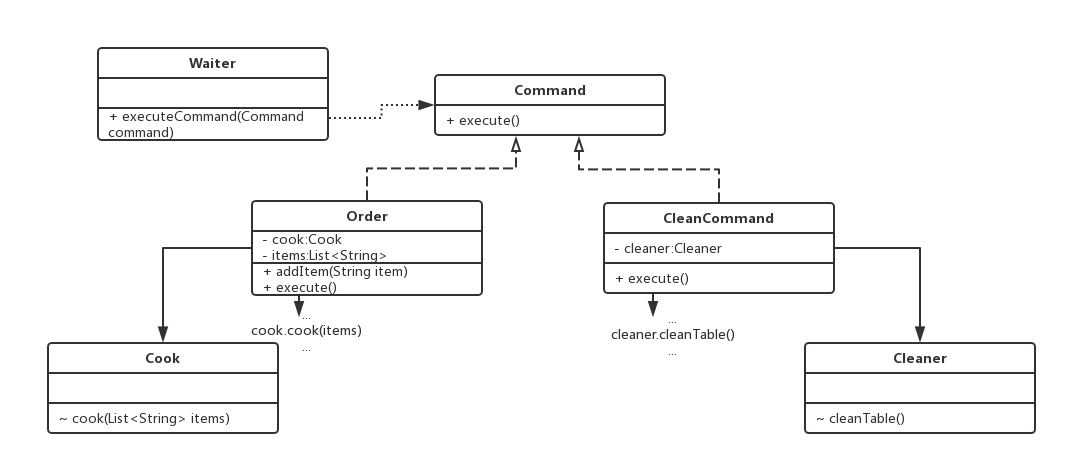
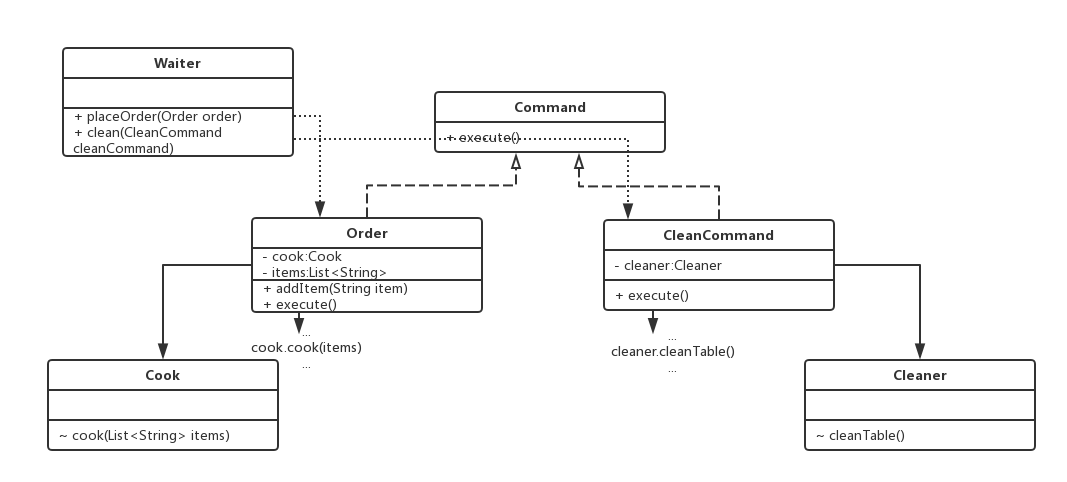
Finished Command Pattern restaurant example

diff --git a/4-Behavioral Patterns/6-Command Pattern/Restaurant Example/Java/restaurant/Waiter.java b/4-Behavioral Patterns/6-Command Pattern/Restaurant Example/Java/restaurant/Waiter.java
@@ -1,24 +1,61 @@
 package restaurant;
 
+import java.util.Arrays;
+
 /**
  * Waiter class that works as "Invoker".
  * This class is responsible for executing the different "Command"s.
+ * The "Invoker" does not know how to handle the request, but simply invoke
+ * command.execute() method, and let the internal correct "Receive" handle the
+ * request.
  *
  * @author Ziang Lu
  */
 public class Waiter {
 
     /**
-     * Executes the given command.
-     * The "Invoker" does not know how to handle the request, but simply invoke
-     * command.execute() method, and let the internal correct "Receiver" handle
-     * the request.
-     * @param command command to execute
+     * Colleague cook in the restaurant.
      */
-    public void executeCommand(Command command) {
-        System.out.println("Waiter [Invoker] has received the command [Command] and start executing the command " +
-                "[Command] ...");
-        command.execute();
+    private final Cook restaurantCook;
+    /**
+     * Colleague cleaner in the restaurant.
+     */
+    private final Cleaner restaurantCleaner;
+
+    /**
+     * Constructor with parameter.
+     * @param restaurantCook colleague cook
+     * @param restaurantCleaner colleague cleaner
+     */
+    public Waiter(Cook restaurantCook, Cleaner restaurantCleaner) {
+        this.restaurantCook = restaurantCook;
+        this.restaurantCleaner = restaurantCleaner;
+    }
+
+    /**
+     * Places a new order with the given items.
+     * @param items items of the order
+     */
+    public void placeOrder(String... items) {
+        System.out.println("Waiter [Invoker] has received an order with items: " + Arrays.toString(items) + ".");
+        // Create an order [Command] by passing in the cook [Receiver]
+        Order order = new Order(restaurantCook);
+        for (String item : items) {
+            order.addItem(item);
+        }
+        System.out.println("Waiter [Invoker] started executing the command...");
+        order.execute();
+    }
+
+    /**
+     * Receives a request to clean the table.
+     */
+    public void clean() {
+        System.out.println("Waiter [Invoker] has received the clean request.");
+        // Create a clean command [Command] by passing in the cleaner [Receiver]
+        CleanCommand cleanCommand = new CleanCommand(restaurantCleaner);
+        System.out.println("Waiter [Invoker] started executing the clean command...");
+        cleanCommand.execute();
     }
 
 }

diff --git a/4-Behavioral Patterns/6-Command Pattern/Restaurant Example/Java/runner/Customer.java b/4-Behavioral Patterns/6-Command Pattern/Restaurant Example/Java/runner/Customer.java
@@ -1,9 +1,7 @@
 package runner;
 
-import restaurant.CleanCommand;
 import restaurant.Cleaner;
 import restaurant.Cook;
-import restaurant.Order;
 import restaurant.Waiter;
 
 /**
@@ -20,37 +18,29 @@ public class Customer {
     public static void main(String[] args) {
         Cook restaurantCook = new Cook(); // Receiver
         Cleaner restaurantCleaner = new Cleaner(); // Receiver
-        Waiter restaurantWaiter = new Waiter(); // Invoker
+        Waiter restaurantWaiter = new Waiter(restaurantCook, restaurantCleaner); // Invoker
 
-        // Create a order [Command] by passing in the cook [Receiver]
-        Order order = new Order(restaurantCook);
-        order.addItem("Kung Pao Chicken");
-        order.addItem("Sesame Chicken");
-        System.out.println();
-        // Let the waiter [Invoker] execute this command
-        restaurantWaiter.executeCommand(order);
+        // Request the waiter [Invoker] to place an order [Command]
+        restaurantWaiter.placeOrder("Kung Pao Chicken", "Sesame Chicken");
 
         System.out.println();
 
-        // Create a clean command [Command] by passing in the cleaner [Receiver]
-        CleanCommand cleanCommand = new CleanCommand(restaurantCleaner);
-        System.out.println();
-        // Let the waiter [Invoker] execute this command
-        restaurantWaiter.executeCommand(cleanCommand);
+        // Request the waiter [Invoker] to clean the table [Command]
+        restaurantWaiter.clean();
 
         /*
          * Output:
+         * Waiter [Invoker] has received an order with items: [Kung Pao Chicken, Sesame Chicken].
          * A new order [Command] has been created.
          * Kung Pao Chicken has been added to the order.
          * Sesame Chicken has been added to the order.
-         *
-         * Waiter [Invoker] has received the command [Command] and start executing the command [Command] ...
+         * Waiter [Invoker] started executing the command...
          * Cook [Receiver] is cooking Sesame Chicken.
          * Cook [Receiver] is cooking Kung Pao Chicken.
          *
+         * Waiter [Invoker] has received the clean request.
          * A new clean command [Command] has been created.
-         *
-         * Waiter [Invoker] has received the command [Command] and start executing the command [Command] ...
+         * Waiter [Invoker] started executing the clean command...
          * Cleaner [Receiver] is cleaning up the table.
          */
     }

diff --git a/4-Behavioral Patterns/6-Command Pattern/Restaurant Example/Python/restaurant.py b/4-Behavioral Patterns/6-Command Pattern/Restaurant Example/Python/restaurant.py
@@ -120,18 +120,42 @@ class Waiter(object):
     """
     Waiter class that works as "Invoker".
     This class is responsible for executing the different "Command"s.
+    The "Invoker" does not know how to handle the request, but simply invoke
+    command.execute() method, and let the internal correct "Receiver" handle the
+    request.
     """
-    __slots__ = []
+    __slots__ = ['_restaurant_cook', '_restaurant_cleaner']
 
-    def execute_command(self, command: Command) -> None:
+    def __init__(self, restaurant_cook: Cook, restaurant_cleaner: Cleaner):
         """
-        Executes the given command.
-        The "Invoker" does not know how to handle the request, but simply invoke
-        command.execute() method, and let the internal correct "Receiver" handle
-        the request.
-        :param command: Command
+        Constructor with parameter.
+        :param restaurant_cook: Cook
+        :param restaurant_cleaner: Cleaner
+        """
+        self._restaurant_cook = restaurant_cook
+        self._restaurant_cleaner = restaurant_cleaner
+
+    def place_order(self, *items) -> None:
+        """
+        Places a new order with the given items.
+        :param items: tuple(str)
         :return: None
         """
-        print('Waiter [Invoker] has received the command [Command] and start '
-              'executing the command [Command] ...')
-        command.execute()
+        print(f'Waiter [Invoker] has received an order with items {items}')
+        # Create an order [Command] by passing in the cook [Receiver]
+        order = Order(self._restaurant_cook)
+        for item in items:
+            order.add_item(item)
+        print('Waiter [Invoker] started executing the command...')
+        order.execute()
+
+    def clean(self) -> None:
+        """
+        Receives a request to clean the table.
+        :return: None
+        """
+        print('Waiter [Invoker] has received the clean request.')
+        # Create a clean command [Command] by passing in the cleaner [Receiver]
+        clean_command = CleanCommand(self._restaurant_cleaner)
+        print('Waiter [Invoker] started executing the clean command...')
+        clean_command.execute()

diff --git a/4-Behavioral Patterns/6-Command Pattern/Restaurant Example/Python/customer.py b/4-Behavioral Patterns/6-Command Pattern/Restaurant Example/Python/customer.py
@@ -7,44 +7,36 @@ Customer module that actually uses Command Pattern.
 
 __author__ = 'Ziang Lu'
 
-from restaurant import CleanCommand, Cleaner, Cook, Order, Waiter
+from restaurant import Cleaner, Cook, Waiter
 
 
 def main():
     restaurant_cook = Cook()  # Receiver
     restaurant_cleaner = Cleaner()  # Receiver
-    restaurant_waiter = Waiter()  # Invoker
+    restaurant_waiter = Waiter(restaurant_cook, restaurant_cleaner)  # Invoker
 
-    # Create a order [Command] by passing in the cook [Receiver]
-    order = Order(cook=restaurant_cook)
-    order.add_item('Kung Pao Chicken')
-    order.add_item('Sesame Chicken')
-    print()
-    # Let the waiter [Invoker] execute this command
-    restaurant_waiter.execute_command(command=order)
+    # Request the waiter [Invoker] to place an order [Command]
+    restaurant_waiter.place_order('Kung Pao Chicken', 'Sesame Chicken')
 
     print()
 
-    # Create a clean command [Command] by passing in the cleaner [Receiver]
-    clean_command = CleanCommand(cleaner=restaurant_cleaner)
-    print()
-    # Let the waiter [Invoker] execute this command
-    restaurant_waiter.execute_command(command=clean_command)
+    # Request the waiter [Invoker] to clean the table [Command]
+    restaurant_waiter.clean()
 
 
 if __name__ == '__main__':
     main()
 
 # Output:
+# Waiter [Invoker] has received an order with items ('Kung Pao Chicken', 'Sesame Chicken')
 # A new order [Command] has been created.
 # Kung Pao Chicken has been added to the order.
 # Sesame Chicken has been added to the order.
-#
-# Waiter [Invoker] has received the command [Command] and start executing the command [Command] ...
+# Waiter [Invoker] started executing the command...
 # Cook [Receiver] is cooking Sesame Chicken.
 # Cook [Receiver] is cooking Kung Pao Chicken.
 #
+# Waiter [Invoker] has received the clean request.
 # A new clean command [Command] has been created.
-#
-# Waiter [Invoker] has received the command [Command] and start executing the command [Command] ...
+# Waiter [Invoker] started executing the clean command...
 # Cleaner [Receiver] is cleaning up the table.

diff --git a/4-Behavioral Patterns/6-Command Pattern/Restaurant Example/Java/restaurant/CleanCommand.java b/4-Behavioral Patterns/6-Command Pattern/Restaurant Example/Java/restaurant/CleanCommand.java
@@ -7,7 +7,7 @@ package restaurant;
  *
  * @author Ziang Lu
  */
-public class CleanCommand implements Command {
+class CleanCommand implements Command {
 
     /**
      * Reference to the "Receiver", which is responsible for, in the execute()
@@ -19,7 +19,7 @@ public class CleanCommand implements Command {
      * Constructor with parameter.
      * @param cleaner cleaner to eventually handle this clean command
      */
-    public CleanCommand(Cleaner cleaner) {
+    CleanCommand(Cleaner cleaner) {
         this.cleaner = cleaner;
         System.out.println("A new clean command [Command] has been created.");
     }

diff --git a/4-Behavioral Patterns/6-Command Pattern/Restaurant Example/Java/restaurant/Order.java b/4-Behavioral Patterns/6-Command Pattern/Restaurant Example/Java/restaurant/Order.java
@@ -10,7 +10,7 @@ import java.util.Set;
  *
  * @author Ziang Lu
  */
-public class Order implements Command {
+class Order implements Command {
 
     /**
      * Reference to the "Receiver", which is responsible for, in the execute()
@@ -26,7 +26,7 @@ public class Order implements Command {
      * Constructor with parameter.
      * @param cook cook to eventually handle this order
      */
-    public Order(Cook cook) {
+    Order(Cook cook) {
         this.cook = cook;
         items = new HashSet<>();
         System.out.println("A new order [Command] has been created.");
